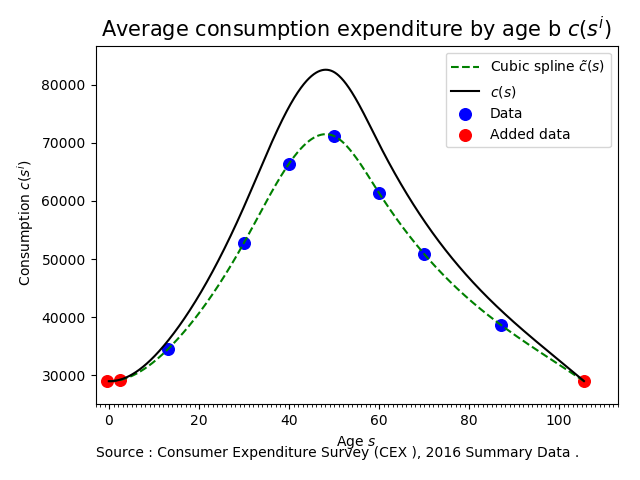
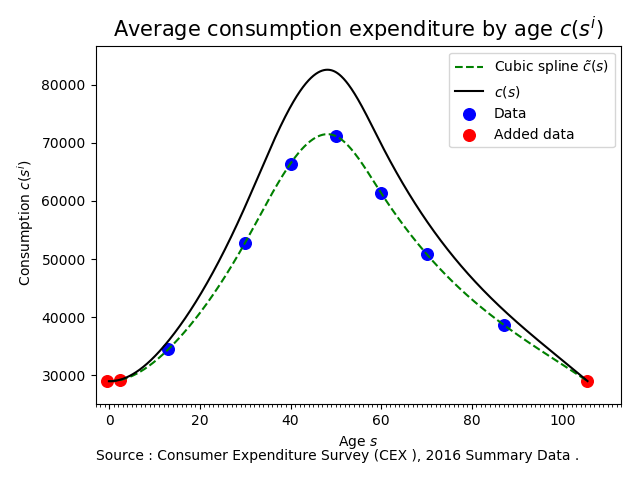
updated code for factor calibration

diff --git a/code/consumption.py b/code/consumption.py
@@ -95,7 +95,7 @@ def get_consump(periods, min_yr, max_yr, graph = False):
         minorLocator = MultipleLocator(1)
         ax.xaxis.set_minor_locator(minorLocator)
         plt.grid(b=True , which ='major ', color ='0.65 ', linestyle ='-')
-        plt.title('Average consumption expenditure by age b $c(s^i)$', fontsize =15)
+        plt.title('Average consumption expenditure by age $c(s^i)$', fontsize =15)
         plt.xlabel(r'Age $s$ ')
         plt.ylabel(r' Consumption $c(s^i)$')
         plt.xlim((-3 , 113))
